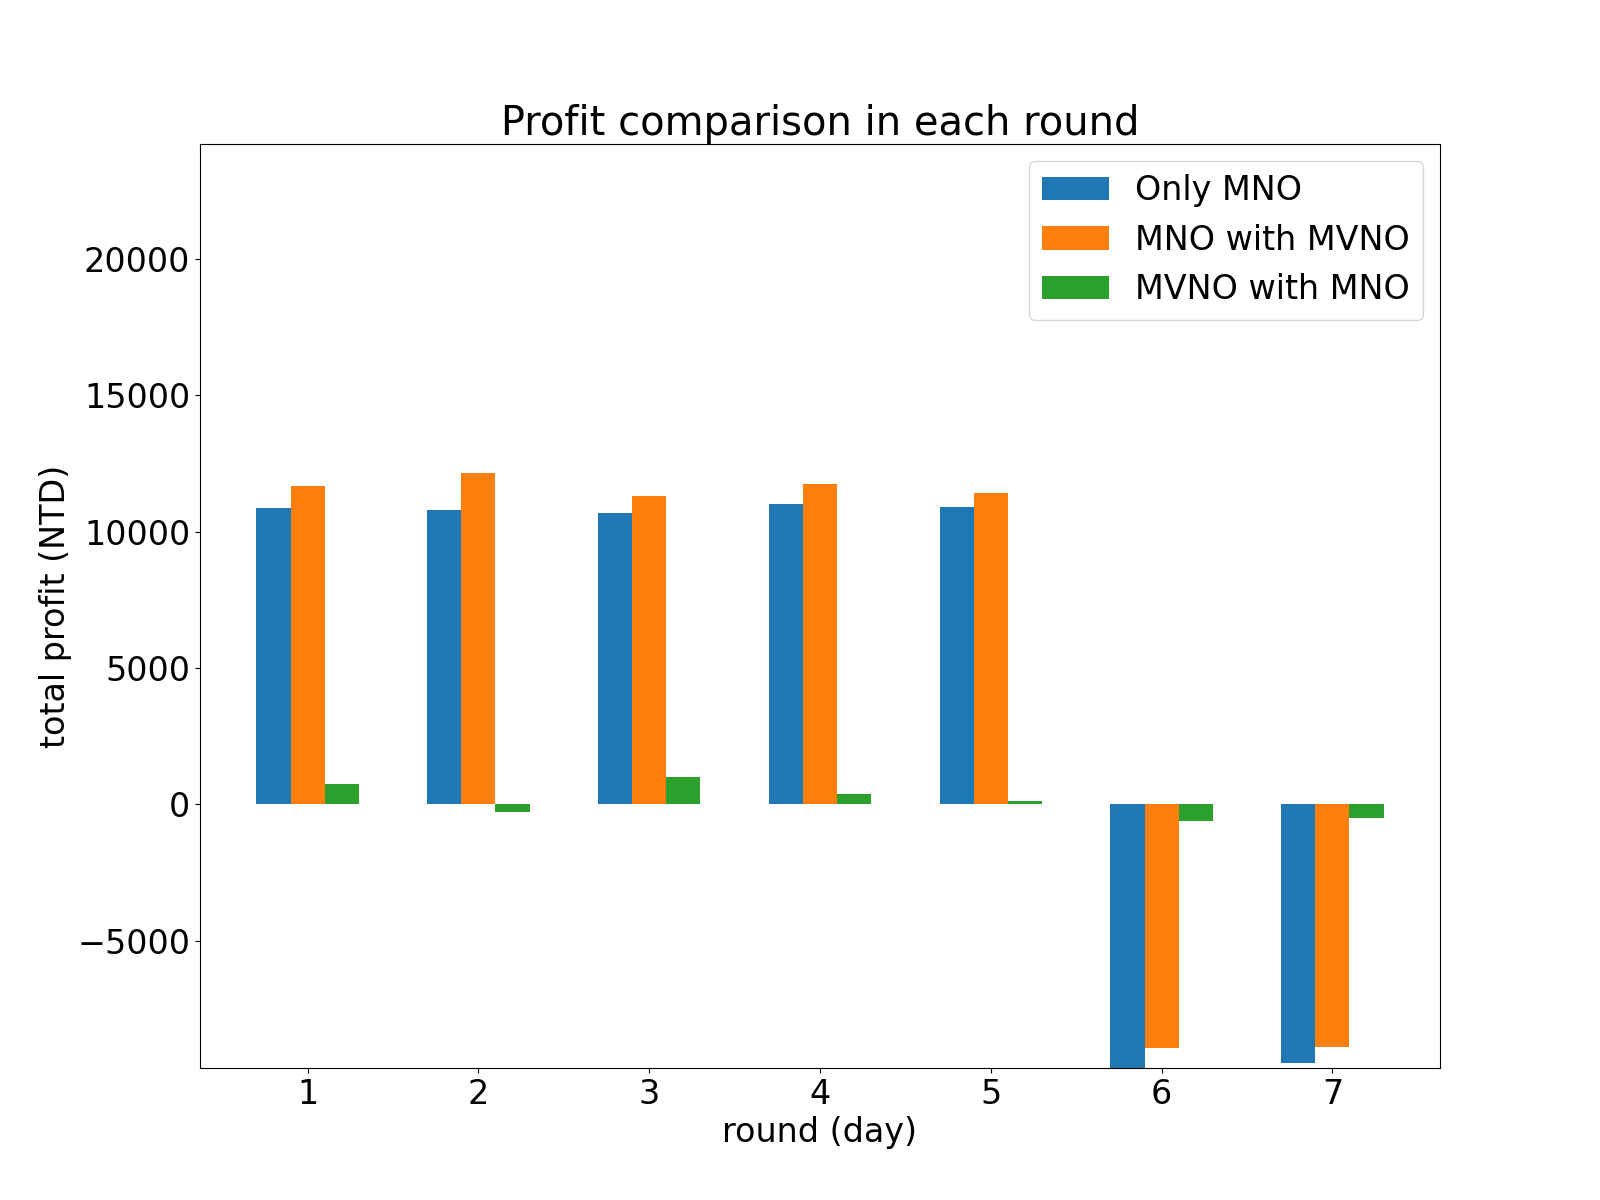
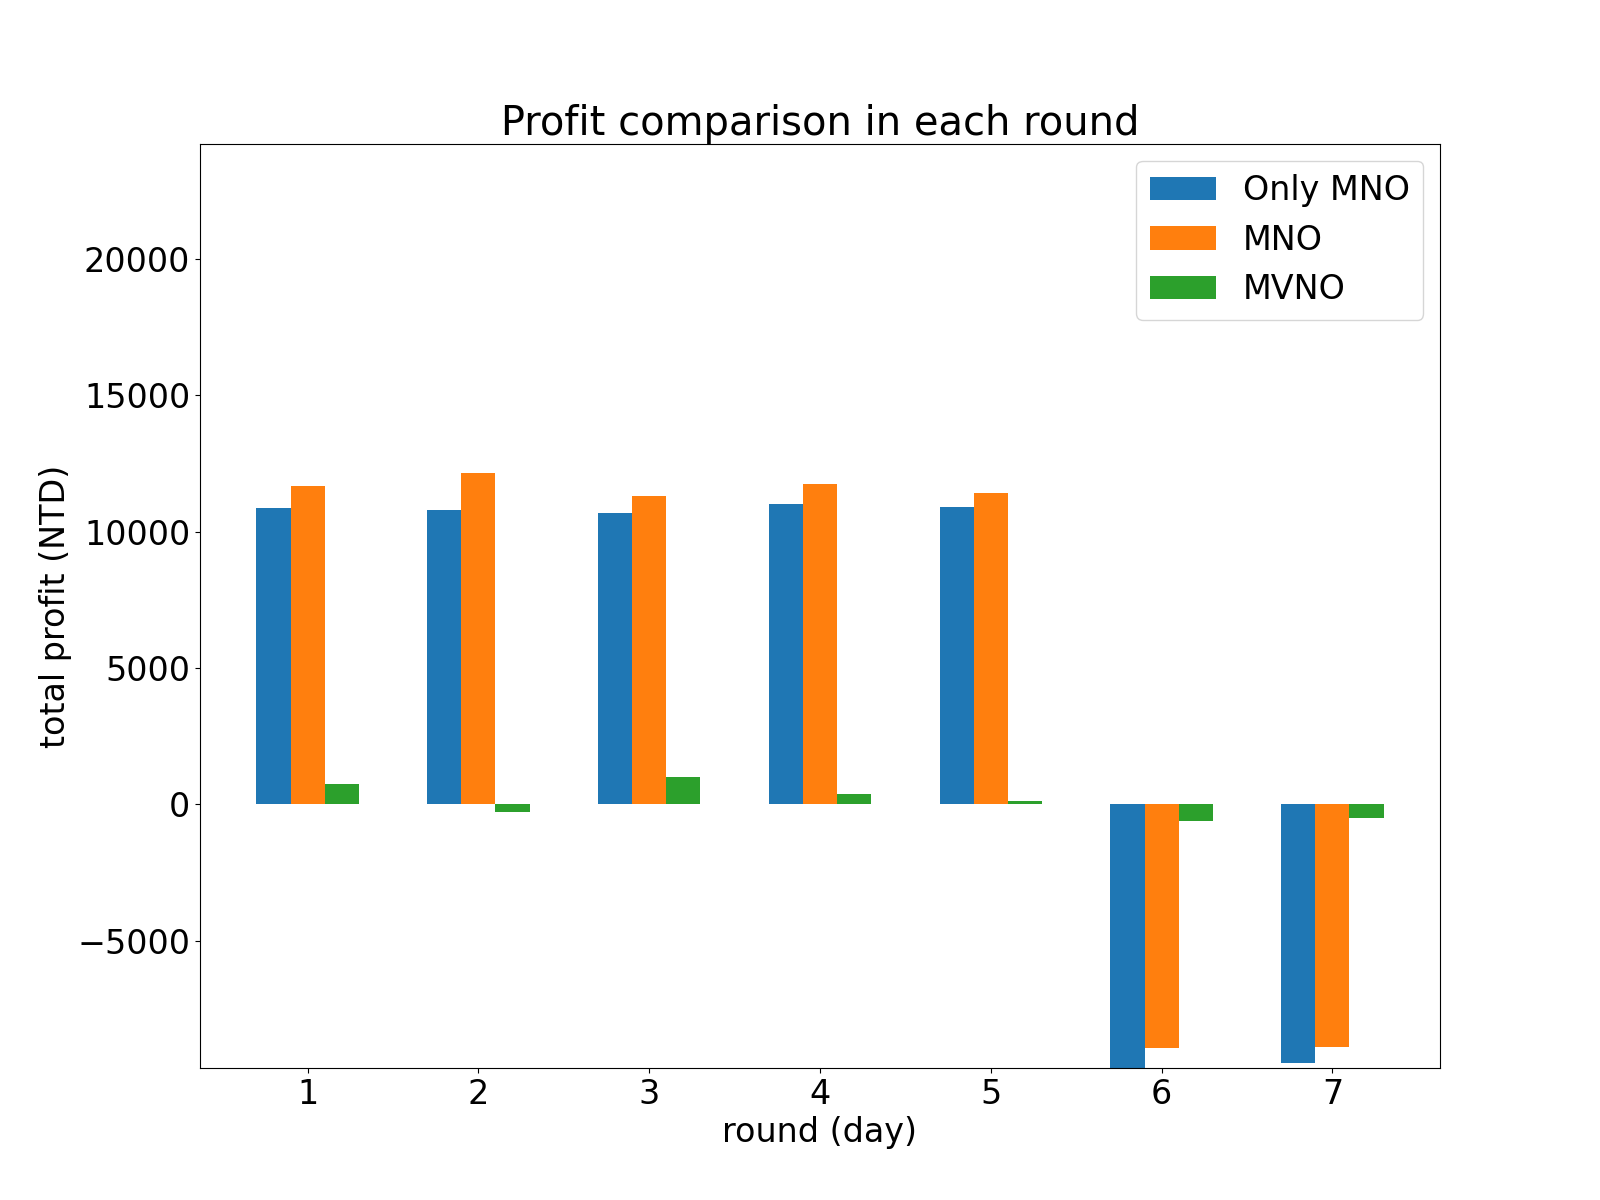
Fix operator name.

Changed region(s): [[0.625, 0.1233, 0.875, 0.2775]]

diff --git a/plot_metrics_compare.py b/plot_metrics_compare.py
@@ -65,8 +65,8 @@ def plot_revenue():
     plt.ylabel('total revenue (NTD)')
     x = np.arange(1, len(data[1]['mno_revenue']) + 1)
     plt.bar(x - 0.2, data[1]['mno_revenue'], width = 0.2, label='Only MNO')
-    plt.bar(x, data[0]['mno_revenue'], width = 0.2, label='MNO with MVNO')
-    plt.bar(x + 0.2, data[0]['mvno_revenue'], width = 0.2, label='MVNO with MNO')
+    plt.bar(x, data[0]['mno_revenue'], width = 0.2, label='MNO')
+    plt.bar(x + 0.2, data[0]['mvno_revenue'], width = 0.2, label='MVNO')
     plt.ylim(min_y, max_y)
     plt.legend()
     plt.savefig(_dir + 'revenue')
@@ -79,8 +79,8 @@ def plot_cost():
     plt.ylabel('total cost (NTD)')
     x = np.arange(1, len(data[1]['mno_cost']) + 1)
     plt.bar(x - 0.2, data[1]['mno_cost'], width = 0.2, label='Only MNO')
-    plt.bar(x, data[0]['mno_cost'], width = 0.2, label='MNO with MVNO')
-    plt.bar(x + 0.2, data[0]['mvno_cost'], width = 0.2, label='MVNO with MNO')
+    plt.bar(x, data[0]['mno_cost'], width = 0.2, label='MNO')
+    plt.bar(x + 0.2, data[0]['mvno_cost'], width = 0.2, label='MVNO')
     plt.ylim(min_y, max_y)
     plt.legend()
     plt.savefig(_dir + 'cost')
@@ -93,8 +93,8 @@ def plot_profit():
     plt.ylabel('total profit (NTD)')
     x = np.arange(1, len(data[1]['mno_revenue']) + 1)
     plt.bar(x - 0.2, data[1]['mno_revenue'] - data[1]['mno_cost'], width = 0.2, label='Only MNO')
-    plt.bar(x, data[0]['mno_revenue'] - data[0]['mno_cost'], width = 0.2, label='MNO with MVNO')
-    plt.bar(x + 0.2, data[0]['mvno_revenue'] - data[0]['mvno_cost'], width = 0.2, label='MVNO with MNO')
+    plt.bar(x, data[0]['mno_revenue'] - data[0]['mno_cost'], width = 0.2, label='MNO')
+    plt.bar(x + 0.2, data[0]['mvno_revenue'] - data[0]['mvno_cost'], width = 0.2, label='MVNO')
     plt.ylim(min_y, max_y)
     plt.legend()
     plt.savefig(_dir + 'profit')

diff --git a/parameters.py b/parameters.py
@@ -42,7 +42,7 @@ _theta = 0.2
 delta = 0.5
 _lambda = 0.7
 _mu = 0.9
-expected_task_num = 3
+expected_task_num = 30
 
 # task deployment
 _gamma = [
